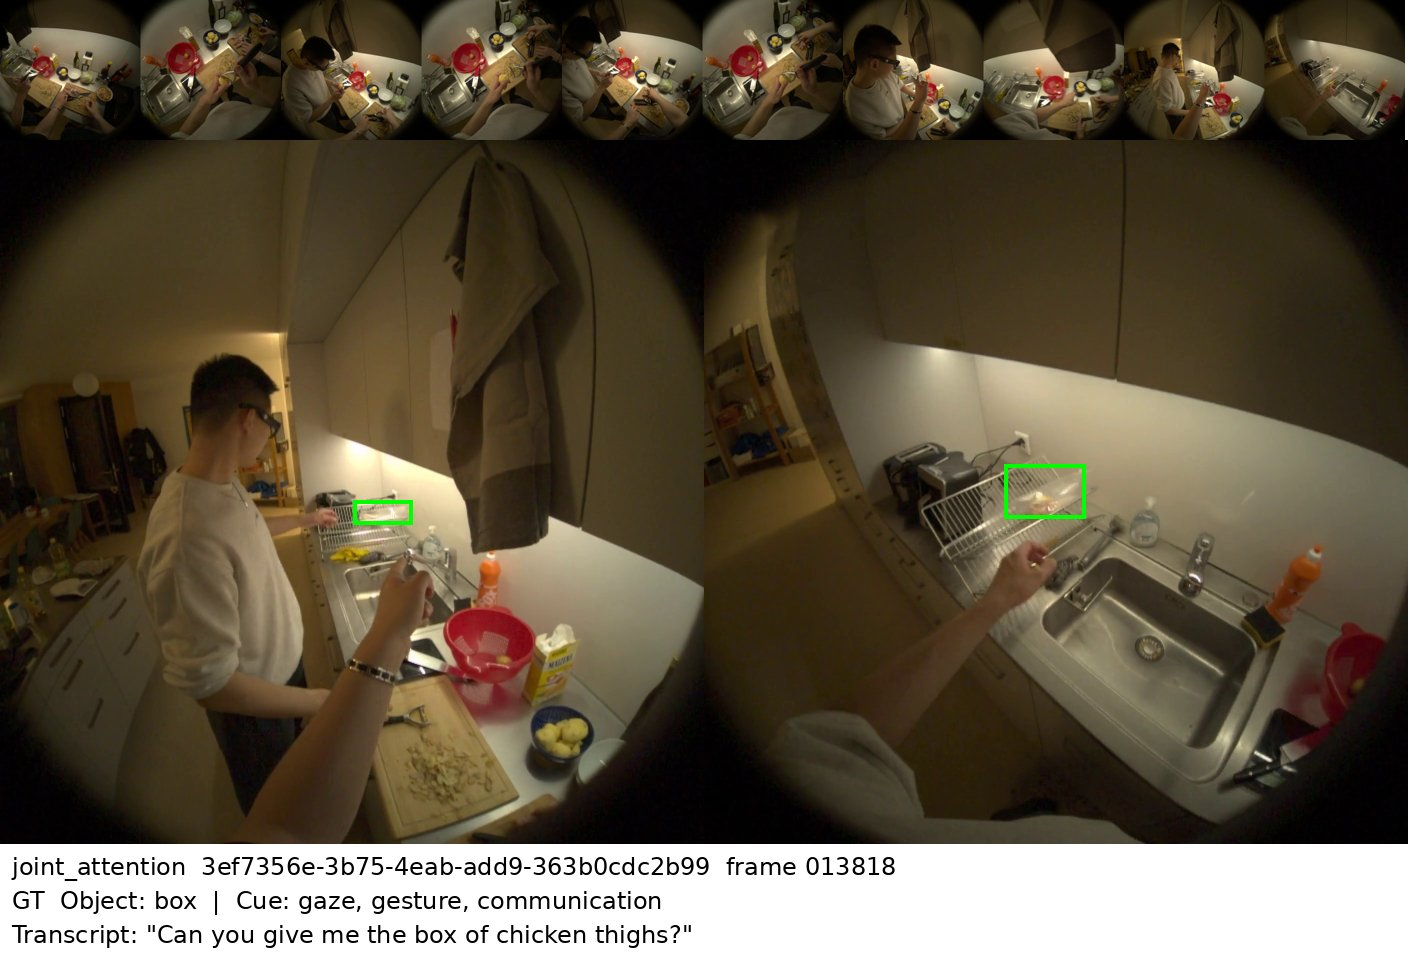
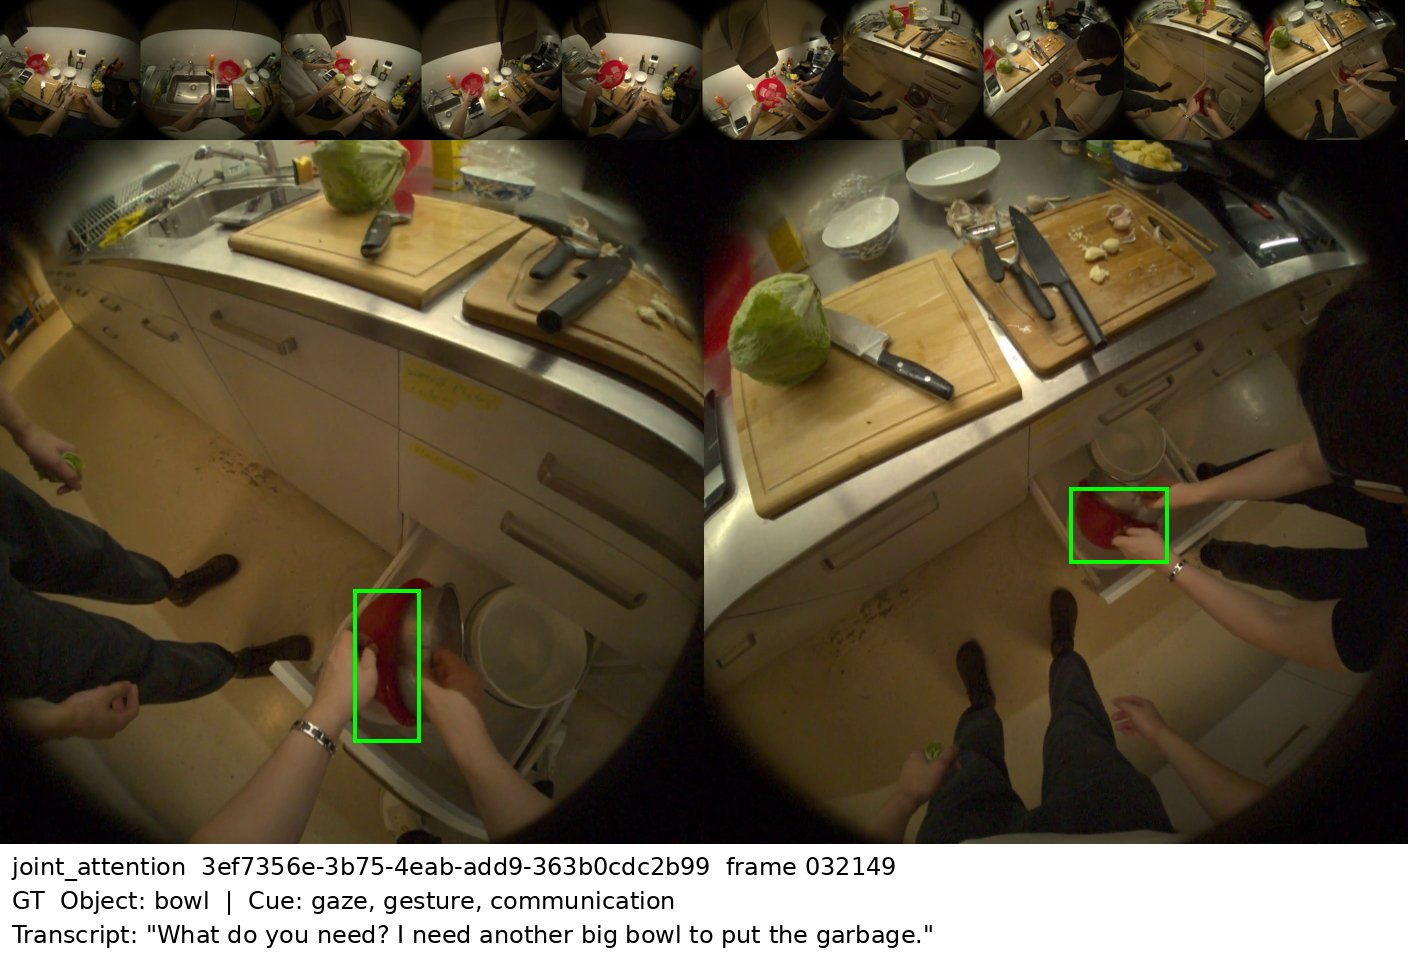
README: use a separate example for joint attention and SCOIA

diff --git a/README.md b/README.md
@@ -39,7 +39,7 @@ This repository contains the data loader, the VLM baselines (GPT, Claude, Gemini
 | Handover prediction (`handover`) | both egocentric views | time to handover, direction, initiator, initiation cue, object category and box |
 | Short-term cue → object interaction anticipation (`scoia`) | helper view | cue type, action verb, action noun, object box |
 
-The same moment in all three tasks (GT boxes in green; the top row shows the preceding 10 s):
+One sample per task (GT boxes in green; the top row shows the preceding 10 s):
 
 <details open>
 <summary>Joint attention</summary>
@@ -78,7 +78,7 @@ Test annotations are held out; download and prepare `train` as well to evaluate 
 ```
 data/comind/
 ├── annotations/
-│   └── dataset_{joint_attention,handover,scoia}_consolidated.json   # test entries are null
+│   └── dataset_{joint_attention,handover,scoia}_consolidated.json  
 ├── split/
 │   └── {train,test}.txt                                             # recording ids
 ├── recordings/<recording_id>/                                       # downloaded
